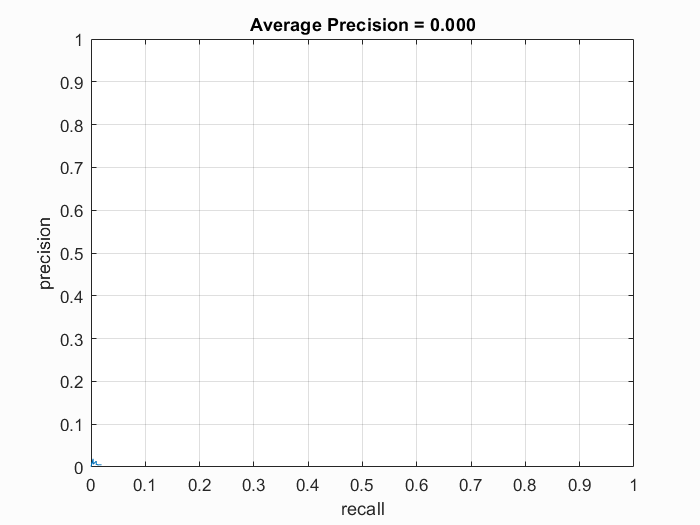
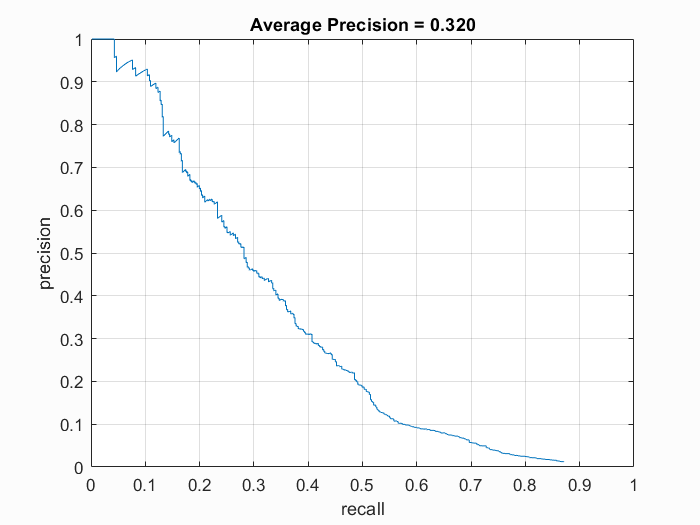
Run detector implemented. Detecting at multiple scales. 0.64 rate.

diff --git a/Assignment 3/code/proj3.m b/Assignment 3/code/proj3.m
@@ -90,6 +90,7 @@ disp(['accuracy = ',num2str(accuracy),', recall = ',num2str(recall),...
 [bboxes, confidences, image_ids] = ...
     run_detector(test_data_path, svmClassifier, hog_template_size,hog_cell_size);
 
+disp(size(confidences))
 
 %% Step 5. Evaluate and Visualize detections
 % These functions require ground truth annotations, and thus can only be
@@ -100,7 +101,7 @@ disp(['accuracy = ',num2str(accuracy),', recall = ',num2str(recall),...
 [gt_ids, gt_bboxes, gt_isclaimed, tp, fp, duplicate_detections] = ...
     evaluate_detections(bboxes, confidences, image_ids, test_label_path);
 
-%visualize_detections_by_image(bboxes, confidences, image_ids, tp, fp, test_data_path, test_label_path)
+visualize_detections_by_image(bboxes, confidences, image_ids, tp, fp, test_data_path, test_label_path)
 % visualize_detections_by_image_no_gt(bboxes, confidences, image_ids, test_data_path)
 
 % visualize_detections_by_confidence(bboxes, confidences, image_ids, test_data_path, test_label_path);
@@ -114,58 +115,58 @@ disp(['accuracy = ',num2str(accuracy),', recall = ',num2str(recall),...
 
 
 
-%% step 6. (optional) Implement PCA to reduce feature dimensionality and then train SVM.  
-% The feature size of hog can be computed as (hog_template_size/hog_cell_size)^2*31
-% This may be a long vector and may take a lot of time to train the classifer.
-% PCA allows you to reduce the dimensionality of feature by computing
-% principal axes that represent maximum variance. It may also improve the 
-% classifier performance.
-
-% You will code the function pca_components from scratch in this part. Follow the 
-% lecture slides discussed in class. pca_components will
-% take hog features of positive samples (feature dimension = N1) and
-% return a 'coeff' matrix of size N1xN2 (where N2 < N1).
-% Each column of coeff contains coefficients for one principal component.
-
-% In your code you should choose N2 optimally. Refer to your lectures which
-% explains N2 should be chosen such that the cumulative variance ratio > 0.9
-
-% YOU SHOULD CODE THE FUNCTION pca_components()
-% which computes coefficients for top N2 principal dimensions
-pca_coeff = pca_components(features_pos);
-
-% This step is done for you. New features are computed from the
-% from the principal coeffients
-features_pos = features_pos*pca_coeff;
-features_neg = features_neg*pca_coeff;
-
-% You have already done this part. SVM is retrained with the new features
-svmClassifier = svm_training(features_pos, features_neg);
-
-
-%You have already done this part. Performance measures.
-[accuracy,recall,tn_rate,precision] = ...
-    classifier_performance(svmClassifier,features_pos,features_neg);
-
-disp(['accuracy = ',num2str(accuracy),', recall = ',num2str(recall),...
-     ', tn_rate = ',num2str(tn_rate),', precision = ',num2str(precision)]);
-
- % YOU SHOULD CODE THE FUNCTION run_detector_pca(). This is exactly like 
- % the run_detector you coded above except for two differences.
- %  . it has an extra input argument pca_coeff which is the N1xN2 matrix
- %  computed above. Each column represents the coefficients of a principal
- %  axis
- % . the features determined for the test images should be of length N2
- % i.e. each hog feature of length N1 will be projected onto N2 dimensions.
- [bboxes, confidences, image_ids] = ...
-    run_detector_pca(test_data_path, svmClassifier, hog_template_size,hog_cell_size, pca_coeff);
-
-% Don't modify anything in 'evaluate_detections'!
-[gt_ids, gt_bboxes, gt_isclaimed, tp, fp, duplicate_detections] = ...
-    evaluate_detections(bboxes, confidences, image_ids, test_label_path);
-
-% visualize_detections_by_image(bboxes, confidences, image_ids, tp, fp, test_data_path, test_label_path)
-% visualize_detections_by_image_no_gt(bboxes, confidences, image_ids, test_data_path)
-
-% visualize_detections_by_confidence(bboxes, confidences, image_ids, test_data_path, test_label_path);
-
+% %% step 6. (optional) Implement PCA to reduce feature dimensionality and then train SVM.  
+% % The feature size of hog can be computed as (hog_template_size/hog_cell_size)^2*31
+% % This may be a long vector and may take a lot of time to train the classifer.
+% % PCA allows you to reduce the dimensionality of feature by computing
+% % principal axes that represent maximum variance. It may also improve the 
+% % classifier performance.
+% 
+% % You will code the function pca_components from scratch in this part. Follow the 
+% % lecture slides discussed in class. pca_components will
+% % take hog features of positive samples (feature dimension = N1) and
+% % return a 'coeff' matrix of size N1xN2 (where N2 < N1).
+% % Each column of coeff contains coefficients for one principal component.
+% 
+% % In your code you should choose N2 optimally. Refer to your lectures which
+% % explains N2 should be chosen such that the cumulative variance ratio > 0.9
+% 
+% % YOU SHOULD CODE THE FUNCTION pca_components()
+% % which computes coefficients for top N2 principal dimensions
+% pca_coeff = pca_components(features_pos);
+% 
+% % This step is done for you. New features are computed from the
+% % from the principal coeffients
+% features_pos = features_pos*pca_coeff;
+% features_neg = features_neg*pca_coeff;
+% 
+% % You have already done this part. SVM is retrained with the new features
+% svmClassifier = svm_training(features_pos, features_neg);
+% 
+% 
+% %You have already done this part. Performance measures.
+% [accuracy,recall,tn_rate,precision] = ...
+%     classifier_performance(svmClassifier,features_pos,features_neg);
+% 
+% disp(['accuracy = ',num2str(accuracy),', recall = ',num2str(recall),...
+%      ', tn_rate = ',num2str(tn_rate),', precision = ',num2str(precision)]);
+% 
+%  % YOU SHOULD CODE THE FUNCTION run_detector_pca(). This is exactly like 
+%  % the run_detector you coded above except for two differences.
+%  %  . it has an extra input argument pca_coeff which is the N1xN2 matrix
+%  %  computed above. Each column represents the coefficients of a principal
+%  %  axis
+%  % . the features determined for the test images should be of length N2
+%  % i.e. each hog feature of length N1 will be projected onto N2 dimensions.
+%  [bboxes, confidences, image_ids] = ...
+%     run_detector_pca(test_data_path, svmClassifier, hog_template_size,hog_cell_size, pca_coeff);
+% 
+% % Don't modify anything in 'evaluate_detections'!
+% [gt_ids, gt_bboxes, gt_isclaimed, tp, fp, duplicate_detections] = ...
+%     evaluate_detections(bboxes, confidences, image_ids, test_label_path);
+% 
+% % visualize_detections_by_image(bboxes, confidences, image_ids, tp, fp, test_data_path, test_label_path)
+% % visualize_detections_by_image_no_gt(bboxes, confidences, image_ids, test_data_path)
+% 
+% % visualize_detections_by_confidence(bboxes, confidences, image_ids, test_data_path, test_label_path);
+% 

diff --git a/Assignment 3/code/run_detector.m b/Assignment 3/code/run_detector.m
@@ -50,16 +50,16 @@ for i = 1:num_images
     % you an example of how to call the function. This part of the code needs
     % to be commented out when you write your own function.
     
-    [cur_confidences,cur_bboxes] =...
-        PlaceHolder(img, svmClassifier, hog_template_size,hog_cell_size);
+%     [cur_confidences,cur_bboxes] =...
+%         PlaceHolder(img, svmClassifier, hog_template_size,hog_cell_size);
     
     
     % You will be coding the Detector() function. It has a similar
     % function definition as that of PlaceHolder().
     
     %  Complete the function Detector() and uncomment the line below
-    %[cur_confidences,cur_bboxes] =...
-    %    Detector(img, svmClassifier, hog_template_size,hog_cell_size);
+    [cur_confidences,cur_bboxes] =...
+       Detector(img, svmClassifier, hog_template_size,hog_cell_size);
     
     cur_image_ids = cell(0,1);
     cur_image_ids(1:size(cur_bboxes,1)) = {test_scenes(i).name}; 
@@ -125,16 +125,60 @@ function [cur_confidences,cur_bboxes] = ...
 % single scale. A word of advise. Don't save all the HoGs. Save 
 % the bounding boxes and confidences of only detected faces.
 % This will speed up your detections.
- 
 
 cur_bboxes = zeros(0,4);
 cur_confidences = zeros(0,1);
-%==============================================================
 
-%       YOUR CODE HERE
+% convert image to grayscale if it's rgb
+if size(img, 3) == 3
+    img = rgb2gray(img);
+end
 
-%==============================================================
+% different scales used for extracting, can be changed
+scales = [.1, .2, .3, .4, .5, .75, 1, 1.25, 1.5, 1.75, 2];
 
+% calculate the size of patch based on template and cell sizes
+size_patch = hog_template_size / hog_cell_size;
+
+% extract weights and bias
+w = svmClassifier.weights;
+b = svmClassifier.bias;
+
+% iterate over all scales
+for scale = scales
+    % scale the image
+    scaled_img = imresize(img, scale);
+    % calculate the hog for whole scaled image
+    hog = vl_hog(im2single(scaled_img), hog_cell_size);
+    % get dimensions of hog matrix
+    [size_y, size_x, ~] = size(hog);
+    
+    % iterate over all patches
+    for x = 1:(size_x - size_patch + 1)
+        for y = 1:(size_y - size_patch + 1)
+            % get hog of the patch from hog of the image
+            hog_of_patch = hog(y:y+size_patch-1, x:x+size_patch-1, :);
+            % vectorize the hog for multiplication
+            hog_row_vector = hog_of_patch(:)';
+            % check for face detection      
+            confidence = hog_row_vector * w + b;
+            if confidence >= 1.9
+                cur_bboxes = [1 + (x-1)*hog_cell_size/scale,...
+                    1+(y-1)*hog_cell_size/scale,...
+                    (hog_template_size+(x-1)*hog_cell_size)/scale,...
+                    (hog_template_size+(y-1)*hog_cell_size)/scale...
+                    ; cur_bboxes];
+                cur_confidences = [ confidence ; cur_confidences];
+            end
+            
+        end
+    end
+
+end
+    
+
+[cur_bboxes, cur_confidences] = ...
+    nonMaximum_Suppression(cur_bboxes, cur_confidences,size(img));
 
 end
 

diff --git a/Assignment 3/code/get_training_features.m b/Assignment 3/code/get_training_features.m
@@ -1,6 +1,11 @@
 function [features_pos, features_neg] = get_training_features...
     (train_path_pos, train_path_neg,hog_template_size,hog_cell_size)
 
+M = load('features_pos.mat');
+features_pos = M.features_pos;
+N = load('features_neg.mat');
+features_neg = N.features_neg;
+return 
 %This function returns the hog features of all positive examples and for
 %negative examples
 
@@ -118,7 +123,7 @@ num_samples = 10000;
 sample_count = 0;
 % different scales used for extracting, can be changed
 scales = [.5, 1, 1.5, 2];
-
+%scales = [.1, .2, .3, .4, .5, .75, 1, 1.25, 1.5, 1.75, 2];
 % initialize 
 features_neg = zeros(num_samples, (hog_template_size / hog_cell_size)^2 * 31);
     
@@ -127,8 +132,10 @@ while sample_count < num_samples
     rand_img_index = random('unid', num_images);
     rand_img = imread(strcat(image_files(rand_img_index).folder,...
         '\', image_files(rand_img_index).name));
-    % convert selected image to grayscale
-    rand_img = rgb2gray(rand_img);
+    % convert selected image to grayscale if it's rgb
+    if size(rand_img, 3) == 3
+        rand_img = rgb2gray(rand_img);
+    end
     
     % take windows for different scales of randomly selected image
     for scale = scales
@@ -169,6 +176,9 @@ while sample_count < num_samples
         end
     end
 end
+
+% save('features_pos.mat', 'features_pos')
+% save('features_neg.mat', 'features_neg')
 
 end
 
